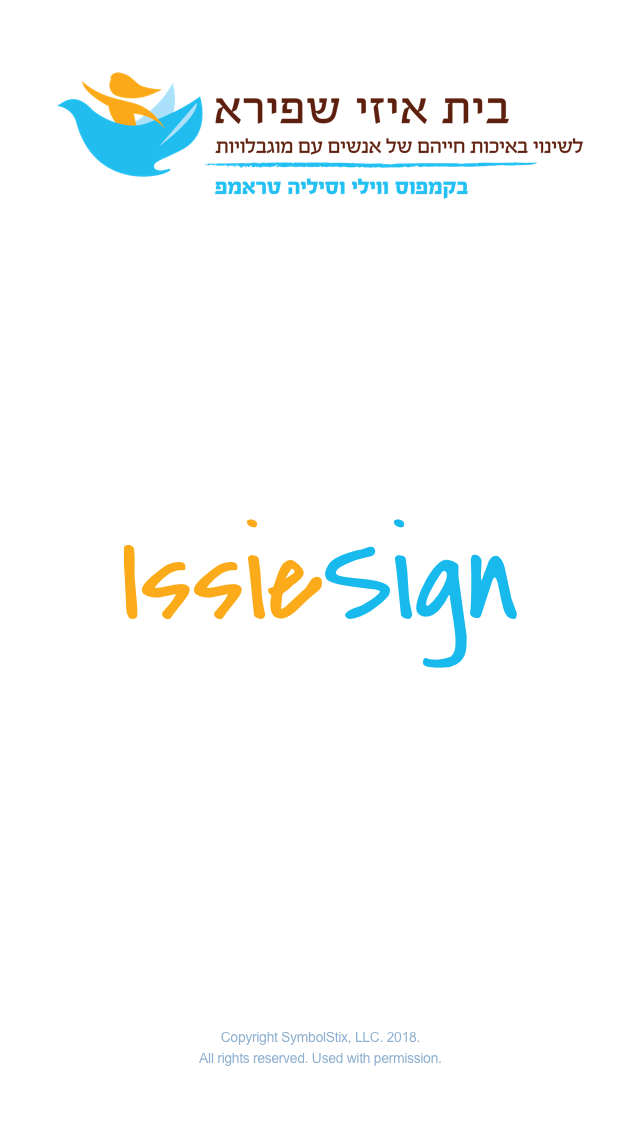
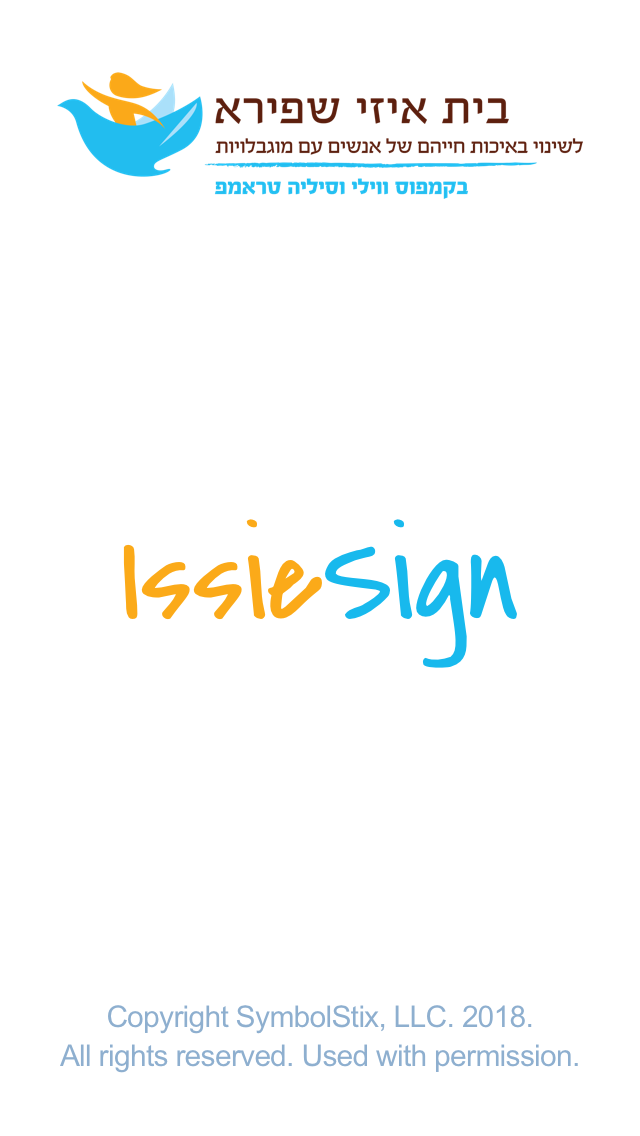
new splash images and fixes to calculating the size + scroll of info

Changed region(s): [[0.0938, 0.8627, 0.9062, 0.9551]]

diff --git a/src/containers/Info.js b/src/containers/Info.js
@@ -4,11 +4,9 @@ import '../css/info.css';
 class Info extends React.Component {
     render() {
 
-        let infoTextHeb = "IssieSign \u05D4\u05D9\u05D0 \u05D0\u05E4\u05DC\u05D9\u05E7\u05E6\u05D9\u05D4 \u05DC\u05D4\u05D9\u05DB\u05E8\u05D5\u05EA \u05D5\u05DC\u05DE\u05D9\u05D3\u05D4 \u05E9\u05DC \u05E1\u05D9\u05DE\u05E0\u05D9\u05DD \u05D1\u05E1\u05D9\u05E1\u05D9\u05D9\u05DD \u05DC\u05D4\u05D1\u05E2\u05EA \u05E6\u05E8\u05DB\u05D9\u05DD, \u05E8\u05E2\u05D9\u05D5\u05E0\u05D5\u05EA, \u05EA\u05D7\u05D5\u05E9\u05D5\u05EA \u05D5\u05E8\u05E6\u05D5\u05E0\u05D5\u05EA \u05D4\u05DE\u05D1\u05D5\u05E1\u05E1\u05EA \u05E2\u05DC \u05E9\u05E4\u05EA \u05D4\u05E1\u05D9\u05DE\u05E0\u05D9\u05DD \u05D4\u05D9\u05E9\u05E8\u05D0\u05DC\u05D9\u05EA (\u05E9\u05E1\"\u05D9). \u05D4\u05D0\u05E4\u05DC\u05D9\u05E7\u05E6\u05D9\u05D4 \u05E4\u05D5\u05EA\u05D7\u05D4 \u05D1\u05DE\u05D9\u05D5\u05D7\u05D3 \u05E2\u05D1\u05D5\u05E8 \u05D0\u05E0\u05E9\u05D9\u05DD \u05E2\u05DD \u05E6\u05E8\u05DB\u05D9\u05DD \u05EA\u05E7\u05E9\u05D5\u05E8\u05EA\u05D9\u05D9\u05DD \u05DE\u05D5\u05E8\u05DB\u05D1\u05D9\u05DD (CCN), \u05D4\u05D6\u05E7\u05D5\u05E7\u05D9\u05DD \u05DC\u05E1\u05D9\u05DE\u05E0\u05D9\u05DD \u05D5\u05D2\'\u05E1\u05D8\u05D5\u05EA \u05DB\u05D0\u05DE\u05E6\u05E2\u05D9 \u05EA\u05E7\u05E9\u05D5\u05E8\u05EA \u05EA\u05D5\u05DE\u05DB\u05EA \u05D5\u05D7\u05DC\u05D9\u05E4\u05D9\u05EA (\u05EA\u05EA\"\u05D7) \u05DC\u05D4\u05D1\u05E2\u05EA \u05E8\u05E6\u05D5\u05E0\u05D5\u05EA, \u05EA\u05D7\u05D5\u05E9\u05D5\u05EA, \u05DE\u05D7\u05E9\u05D1\u05D5\u05EA \u05D5\u05E8\u05E2\u05D9\u05D5\u05E0\u05D5\u05EA. \u05D4\u05D0\u05E4\u05DC\u05D9\u05E7\u05E6\u05D9\u05D4 \u05E4\u05D5\u05EA\u05D7\u05D4 \u05E2\u05DC \u05D9\u05D3\u05D9 \u05D4\u05DE\u05E8\u05DB\u05D6 \u05D4\u05D8\u05DB\u05E0\u05D5\u05DC\u05D5\u05D2\u05D9 \u05D1\u05D1\u05D9\u05EA \u05D0\u05D9\u05D6\u05D9 \u05E9\u05E4\u05D9\u05E8\u05D0 \u05D1\u05E9\u05D9\u05EA\u05D5\u05E3 \u05DE\u05E2\u05D1\u05D3\u05D5\u05EA SAP \u05D9\u05E9\u05E8\u05D0\u05DC.\r\n\u05D1\u05D0\u05DE\u05E6\u05E2\u05D5\u05EA \u05E2\u05D9\u05E6\u05D5\u05D1 \u05D1\u05E2\u05DC \u05E7\u05D5 \u05E0\u05E7\u05D9 \u05D5\u05E4\u05E9\u05D5\u05D8 \u05D4\u05DE\u05D0\u05E4\u05E9\u05E8 \u05D2\u05D9\u05E9\u05D4 \u05E0\u05D5\u05D7\u05D4 \u05DC\u05E9\u05D9\u05DE\u05D5\u05E9 \u05D1\u05D0\u05E4\u05DC\u05D9\u05E7\u05E6\u05D9\u05D4 \u05E2\u05D1\u05D5\u05E8 \u05D0\u05E0\u05E9\u05D9\u05DD \u05E2\u05DD \u05E7\u05E9\u05D9\u05D9\u05DD \u05DE\u05D5\u05D8\u05D5\u05E8\u05D9\u05D9\u05DD, \u05D4\u05D0\u05E4\u05DC\u05D9\u05E7\u05E6\u05D9\u05D4 \u05D7\u05D5\u05E9\u05E4\u05EA \u05D1\u05E4\u05E0\u05D9 \u05D4\u05DE\u05E9\u05EA\u05DE\u05E9\u05D9\u05DD \u05E6\u05D5\u05D4\u05E8 \u05D0\u05DC \u05D0\u05D5\u05E6\u05E8 \u05DE\u05D9\u05DC\u05D9\u05DD \u05D5\u05E1\u05D9\u05DE\u05E0\u05D9\u05DD \u05D4\u05DE\u05EA\u05D0\u05D9\u05DD \u05DC\u05E9\u05DC\u05D1\u05D9\u05DD \u05D4\u05E8\u05D0\u05E9\u05D5\u05E0\u05D9\u05DD \u05E9\u05DC \u05D4\u05EA\u05E4\u05EA\u05D7\u05D5\u05EA \u05E9\u05E4\u05D4 \u05D5\u05D3\u05D9\u05D1\u05D5\u05E8. \u05E1\u05D9\u05DE\u05E0\u05D9\u05DD \u05D0\u05DC\u05D5 \u05D9\u05DB\u05D5\u05DC\u05D9\u05DD \u05DC\u05E9\u05DE\u05E9 \u05DB\u05D0\u05DE\u05E6\u05E2\u05D9 \u05DE\u05E9\u05DE\u05E2\u05D5\u05EA\u05D9 \u05DC\u05EA\u05E7\u05E9\u05D5\u05E8\u05EA \u05D1\u05D9\u05DF \u05D0\u05D9\u05E9\u05D9\u05EA \u05D5\u05D9\u05DB\u05D5\u05DC\u05D9\u05DD \u05DC\u05E1\u05D9\u05D9\u05E2 \u05DC\u05D0\u05E0\u05E9\u05D9\u05DD \u05E2\u05DD \u05E6\u05E8\u05DB\u05D9\u05DD \u05EA\u05E7\u05E9\u05D5\u05E8\u05EA\u05D9\u05D9\u05DD \u05DE\u05D5\u05E8\u05DB\u05D1\u05D9\u05DD \u05DC\u05D4\u05D1\u05D9\u05E2 \u05E2\u05E6\u05DE\u05DD. \r\n\u05D1\u05D0\u05E4\u05DC\u05D9\u05E7\u05E6\u05D9\u05D4 \u05EA\u05D5\u05DB\u05DC\u05D5 \u05DC\u05DE\u05E6\u05D5\u05D0:\r\n\u2022\t\u05E7\u05E8\u05D5\u05D1 \u05DC600 \u05E1\u05E8\u05D8\u05D5\u05E0\u05D9\u05DD \u05D4\u05DE\u05D0\u05E4\u05E9\u05E8\u05D9\u05DD \u05DC\u05DE\u05D9\u05D3\u05D4 \u05E9\u05DC \u05E1\u05D9\u05DE\u05E0\u05D9\u05DD \u05DE\u05EA\u05D5\u05DA \u05E9\u05E4\u05EA \u05D4\u05E1\u05D9\u05DE\u05E0\u05D9\u05DD \u05D4\u05D9\u05E9\u05E8\u05D0\u05DC\u05D9\u05EA.\r\n\u2022\t\u05DB\u05DC \u05E1\u05D9\u05DE\u05DF \u05DE\u05D5\u05E4\u05D9\u05E2 \u05D1\u05D0\u05E4\u05DC\u05D9\u05E7\u05E6\u05D9\u05D4 \u05D9\u05D7\u05D3 \u05E2\u05DD \u05DE\u05D9\u05DC\u05D4 \u05D3\u05D1\u05D5\u05E8\u05D4, \u05DE\u05D9\u05DC\u05D4 \u05DB\u05EA\u05D5\u05D1\u05D4 \u05D5\u05E1\u05DE\u05DC \u05DE\u05D5\u05DB\u05E8, \u05DE\u05EA\u05D5\u05DA \u05DE\u05D0\u05D2\u05E8 \u05D4\u05E1\u05DE\u05DC\u05D9\u05DD SymbolStix*, \u05D4\u05DE\u05E9\u05DE\u05E9 \u05D0\u05EA \u05EA\u05DC\u05DE\u05D9\u05D3\u05D9 \u05D4\u05D7\u05D9\u05E0\u05D5\u05DA \u05D4\u05DE\u05D9\u05D5\u05D7\u05D3 \u05DC\u05D4\u05D1\u05E2\u05D4 \u05D1\u05DE\u05D2\u05D5\u05D5\u05DF \u05D0\u05DE\u05E6\u05E2\u05D9 \u05EA\u05E7\u05E9\u05D5\u05E8\u05EA \u05EA\u05D5\u05DE\u05DB\u05EA \u05D5\u05D7\u05DC\u05D9\u05E4\u05D9\u05EA (\u05EA\u05EA\"\u05D7).\r\n\u2022\t\u05D4\u05E1\u05D9\u05DE\u05E0\u05D9\u05DD \u05DE\u05D0\u05D5\u05D2\u05D3\u05D9\u05DD \u05DC\u05E4\u05D9 \u05E7\u05D8\u05D2\u05D5\u05E8\u05D9\u05D5\u05EA. \u05DB\u05DC \u05E7\u05D8\u05D2\u05D5\u05E8\u05D9\u05D4 \u05DE\u05EA\u05D0\u05E4\u05D9\u05D9\u05E0\u05EA \u05D1\u05E6\u05D1\u05E2 \u05E7\u05D1\u05D5\u05E2 \u05D4\u05DE\u05DC\u05D5\u05D5\u05D4 \u05D0\u05EA \u05DB\u05DC \u05D4\u05E1\u05D9\u05DE\u05E0\u05D9\u05DD \u05D1\u05D0\u05D5\u05EA\u05D4 \u05E7\u05D8\u05D2\u05D5\u05E8\u05D9\u05D4 \u05D5\u05DE\u05E9\u05DE\u05E9 \u05DB\u05EA\u05D5\u05DE\u05DA \u05D5\u05D9\u05D6\u05D5\u05D0\u05DC\u05D9 \u05DC\u05E9\u05D9\u05DE\u05D5\u05E9 \u05D7\u05D5\u05D6\u05E8 \u05D1\u05D0\u05E4\u05DC\u05D9\u05E7\u05E6\u05D9\u05D4.\r\n\u2022\t\u05DB\u05DC \u05E1\u05E8\u05D8\u05D5\u05DF \u05DE\u05E6\u05D9\u05D2 \u05DE\u05D9\u05DC\u05D4\/\u05E1\u05DE\u05DC \u05EA\u05D5\u05DA \u05E9\u05D9\u05DE\u05EA \u05D3\u05D2\u05E9 \u05DC\u05E9\u05DC\u05D1\u05D9\u05DD \u05D4\u05E8\u05D0\u05E9\u05D5\u05E0\u05D9\u05DD \u05E9\u05DC \u05D4\u05EA\u05E4\u05EA\u05D7\u05D5\u05EA \u05E9\u05E4\u05D4 \u05D5\u05D3\u05D9\u05D1\u05D5\u05E8- \u05D4\u05E9\u05DC\u05D1 \u05D4\u05D7\u05D3 \u05DE\u05D9\u05DC\u05D9 \u05D5\u05E9\u05DC\u05D1 \u05D4\u05E6\u05D9\u05E8\u05D5\u05E4\u05D9\u05DD (\"\u05DB\u05DC\u05D1\"- \"\u05DB\u05DC\u05D1 \u05D2\u05D3\u05D5\u05DC\")\r\n\r\n\u05D4\u05DE\u05E8\u05DB\u05D6 \u05D4\u05D8\u05DB\u05E0\u05D5\u05DC\u05D5\u05D2\u05D9 \u05D1\u05D1\u05D9\u05EA \u05D0\u05D9\u05D6\u05D9 \u05E9\u05E4\u05D9\u05E8\u05D0 \u05DE\u05EA\u05DE\u05D7\u05D4 \u05D1\u05E9\u05D9\u05DE\u05D5\u05E9 \u05D1\u05D8\u05DB\u05E0\u05D5\u05DC\u05D5\u05D2\u05D9\u05D5\u05EA \u05DE\u05E1\u05D9\u05D9\u05E2\u05EA \u05E2\u05D1\u05D5\u05E8 \u05D0\u05E0\u05E9\u05D9\u05DD \u05E2\u05DD \u05DE\u05D5\u05D2\u05D1\u05DC\u05D5\u05EA, \u05D5\u05DE\u05E1\u05E4\u05E7 \u05E9\u05D9\u05E8\u05D5\u05EA\u05D9 \u05D9\u05D9\u05E2\u05D5\u05E5 \u05D5\u05D4\u05D3\u05E8\u05DB\u05D4 \u05DC\u05D0\u05E0\u05E9\u05D9 \u05DE\u05E7\u05E6\u05D5\u05E2, \u05DC\u05DE\u05E9\u05E4\u05D7\u05D5\u05EA \u05D5\u05DC\u05DE\u05E1\u05D2\u05E8\u05D5\u05EA \u05D7\u05D9\u05E0\u05D5\u05DA \u05D5\u05D8\u05D9\u05E4\u05D5\u05DC. \u05D1\u05E0\u05D5\u05E1\u05E3 \u05DE\u05E1\u05E4\u05E7 \u05D4\u05DE\u05E8\u05DB\u05D6 \u05D9\u05D9\u05E2\u05D5\u05E5 \u05D5\u05DC\u05D9\u05D5\u05D5\u05D9 \u05DE\u05E7\u05E6\u05D5\u05E2\u05D9 \u05DC\u05E1\u05D8\u05E8\u05D8\u05D0\u05E4\u05D9\u05DD \u05D5\u05DE\u05E4\u05EA\u05D7\u05D9\u05DD \u05D1\u05EA\u05D7\u05D5\u05DD \u05D4\u05D8\u05DB\u05E0\u05D5\u05DC\u05D5\u05D2\u05D9\u05D4 \u05D4\u05DE\u05E1\u05D9\u05D9\u05E2\u05EA.\r\n\r\nCopyright SymbolStix, LLC. 2018. All rights reserved. Used with permission\r\n\r\n";
-        let infoTextEng = "IssieSign is an app for learning how to sign basic vocabulary, based on Israeli Sign Language (ISL), for the purpose of expressing needs and ideas.  It was developed especially for people with complex communication needs who have difficulty expressing themselves, in collaboration with The Technology Center of Beit Issie Shapiro and SAP Labs Israel.\r\nWith a simple, clear and tailor-made design allowing for easy access and navigation for people with motoric or intellectual difficulties, IssieSign can be a significant means of communication and can help people with complex communication needs express themselves more effectively. \r\n\r\nUnique Features: \r\n\r\n\u2022\tLarge number of videos within the app (approx. 600)\r\n\u2022\tEach sign appears in the video along with the spoken word, the written word, and a  familiar symbol (SymbolStix* - used in many special education schools for communication)\r\n\u2022\tCategories are classified by color for easy recognition and efficiency\r\n\u2022\tEach video is structured according to the first stages of language development \u2013 each video contains the word as a one-word stage and as a two-word stage. For example, the video for \"dog\" will have a clip signing \"dog\" followed by the sign for \"big dog\". \r\nIssieSign, is designed to meet needs that we have identified in our work at Beit Issie Shapiro with people with disabilities. It is one of a series of apps we have created with the aim of improving participation and quality of life.  \r\nThe Technology Center at Beit Issie Shapiro serves as a leading hub for promoting innovation and entrepreneurship in the field of Assistive Technology (AT), bringing more accessible and affordable solutions to people with disabilities. We provide consultation and training services to families and professionals and consultation and support to developers and entrepreneurs helping them create apps and products that are accessible to a wider audience including people with disabilities. \r\n\r\nCopyright SymbolStix, LLC. 2018. All rights reserved. Used with permission.\r\n\r\n\r\n\r\n\r\n";
         return (
-            <div className="info">
-                <p className="heb" >
+            <div className="info"  >
+                <div className="heb"  >
                 IssieSign היא אפליקציה להיכרות ולמידה של סימנים בסיסיים להבעת צרכים, רעיונות, תחושות ורצונות המבוססת על שפת הסימנים הישראלית (שס"י). האפליקציה פותחה במיוחד עבור אנשים עם צרכים תקשורתיים מורכבים (CCN), הזקוקים לסימנים וג'סטות כאמצעי תקשורת תומכת וחליפית (תת"ח) להבעת רצונות, תחושות, מחשבות ורעיונות. האפליקציה פותחה על ידי המרכז הטכנולוגי בבית איזי שפירא בשיתוף מעבדות SAP ישראל.
 באמצעות עיצוב בעל קו נקי ופשוט המאפשר גישה נוחה לשימוש באפליקציה עבור אנשים עם קשיים מוטוריים, האפליקציה חושפת בפני המשתמשים צוהר אל אוצר מילים וסימנים המתאים לשלבים הראשונים של התפתחות שפה ודיבור. סימנים אלו יכולים לשמש כאמצעי משמעותי לתקשורת בין אישית ויכולים לסייע לאנשים עם צרכים תקשורתיים מורכבים להביע עצמם. 
 <br/>
@@ -25,9 +23,9 @@ class Info extends React.Component {
 Copyright SymbolStix, LLC. 2018. All rights reserved. Used with permission
 
 
-                </p>
+                </div>
 <br/><br/>
-                <p>
+                <div>
 IssieSign is an app for learning how to sign basic vocabulary, based on Israeli Sign Language (ISL), for the purpose of expressing needs and ideas.  It was developed especially for people with complex communication needs who have difficulty expressing themselves, in collaboration with The Technology Center of Beit Issie Shapiro and SAP Labs Israel.
 With a simple, clear and tailor-made design allowing for easy access and navigation for people with motoric or intellectual difficulties, IssieSign can be a significant means of communication and can help people with complex communication needs express themselves more effectively. 
 <br/>
@@ -44,9 +42,9 @@ IssieSign, is designed to meet needs that we have identified in our work at Beit
 The Technology Center at Beit Issie Shapiro serves as a leading hub for promoting innovation and entrepreneurship in the field of Assistive Technology (AT), bringing more accessible and affordable solutions to people with disabilities. We provide consultation and training services to families and professionals and consultation and support to developers and entrepreneurs helping them create apps and products that are accessible to a wider audience including people with disabilities. 
 <br/>
 Copyright SymbolStix, LLC. 2018. All rights reserved. Used with permission.
-<br/>
+<br/><br/><br/><br/><br/><br/><br/>
 
-               </p>
+               </div>
             </div>
         )
     }

diff --git a/src/App.js b/src/App.js
@@ -113,7 +113,7 @@ class App extends Component {
             searchInput = <SearchInput theme={categoryTheme} slot={isNarrow()?"title":"end-bar"} onChange={this.handleSearch} ref="searchInput" style={{display: "inline-block"}} />
         } else {
             document.preventTouch = false;
-        }
+         }
         if(!path.startsWith("/video") &&  !path.startsWith("/info")) {
 
             leftArrow =  <a slot="next" onClick={this.ScrollRight} id="scrolRight" className="navBtn"><img src="assets/arrow-right.svg" alt="arrow"/></a>

diff --git a/src/css/info.css b/src/css/info.css
@@ -4,7 +4,7 @@
    flex-grow: 1;
     position: absolute;
     left: 150;
-    height: 100%;
+    height: 80%;
     width: 100%;
     margin-top: 200px;
     padding-left: 50px;
